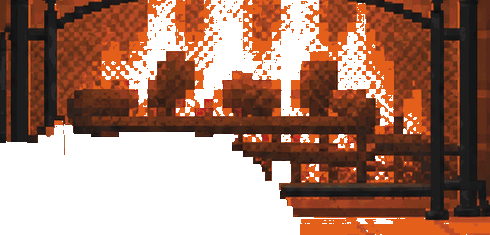
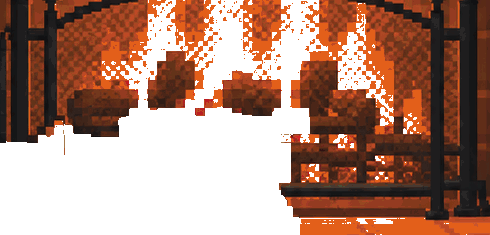
Fix tree ornaments/twinkles, clean fireplace sides, remove music

Changed region(s): [[0.2143, 0.417, 0.6429, 0.7745], [0.6122, 0.9234, 0.6429, 0.9532], [0.551, 0.834, 0.5816, 0.8638]]

diff --git a/index.html b/index.html
@@ -12,18 +12,18 @@ html,body{margin:0;height:100%;background:#0d0a0a;overflow:hidden}
 @keyframes gl{0%,82%,100%{opacity:0;transform:scale(.4)}88%{opacity:.9;transform:scale(1)}94%{opacity:.3;transform:scale(.6)}}
 #fire{left:38.896%;top:33.094%;width:21.983%;height:28.708%;opacity:.9;mix-blend-mode:screen;--m:linear-gradient(90deg,transparent,#000 12%,#000 88%,transparent),linear-gradient(transparent 0,transparent 15%,#000 65%);-webkit-mask-image:var(--m);mask-image:var(--m);-webkit-mask-composite:source-in;mask-composite:intersect}
 .front{z-index:2}.ttail,.tbody,.ktail,.kbody,.khead{z-index:3}
-.santa{left:6.236%;top:31.419%;width:21.579%;height:44.577%;transform-origin:50% 100%;animation:br 4.8s ease-in-out infinite}
-.sarm{left:17.586%;top:44.657%;width:7.761%;height:15.949%;transform-origin:79.8% 87.5%;animation:cookie 6s ease-in-out infinite}
-.stk0{left:59.578%;top:19.458%;width:4.711%;height:14.035%;transform-origin:49.5% 0.0%;animation:stk 3.20s ease-in-out infinite -0.0s}
-.stk1{left:35.711%;top:19.537%;width:4.800%;height:13.955%;transform-origin:54.2% 0.0%;animation:stk 3.65s ease-in-out infinite -0.7s}
-.stk2{left:48.183%;top:19.537%;width:4.172%;height:13.158%;transform-origin:51.6% 0.0%;animation:stk 4.10s ease-in-out infinite -1.4s}
-.stk3{left:42.351%;top:19.139%;width:4.127%;height:13.557%;transform-origin:51.1% 0.0%;animation:stk 4.55s ease-in-out infinite -2.1s}
-.stk4{left:54.195%;top:19.219%;width:4.083%;height:13.477%;transform-origin:51.6% 0.0%;animation:stk 5.00s ease-in-out infinite -2.8s}
-.mt0{left:68.506%;top:90.271%;width:1.570%;height:2.233%;transform-origin:0.0% 35.7%;animation:wig 7s ease-in-out infinite -0s}
-.mt1{left:73.127%;top:93.301%;width:3.365%;height:3.030%;transform-origin:0.0% 34.2%;animation:wig 9s ease-in-out infinite -3s}
+.santa{left:5.922%;top:31.419%;width:20.951%;height:44.577%;transform-origin:50% 100%;animation:br 4.8s ease-in-out infinite}
+.sarm{left:17.586%;top:47.608%;width:7.761%;height:12.998%;transform-origin:79.8% 84.7%;animation:cookie 6s ease-in-out infinite}
+.stk0{left:48.183%;top:19.537%;width:4.127%;height:13.158%;transform-origin:51.1% 0.0%;animation:stk 3.20s ease-in-out infinite -0.0s}
+.stk1{left:54.195%;top:19.537%;width:4.038%;height:13.158%;transform-origin:52.2% 0.0%;animation:stk 3.65s ease-in-out infinite -0.7s}
+.stk2{left:42.351%;top:19.537%;width:4.127%;height:13.158%;transform-origin:51.1% 0.0%;animation:stk 4.10s ease-in-out infinite -1.4s}
+.stk3{left:59.578%;top:19.537%;width:4.127%;height:13.158%;transform-origin:51.1% 0.0%;animation:stk 4.55s ease-in-out infinite -2.1s}
+.stk4{left:36.563%;top:19.537%;width:3.903%;height:13.158%;transform-origin:51.7% 0.0%;animation:stk 5.00s ease-in-out infinite -2.8s}
+.mt0{left:68.910%;top:90.271%;width:1.077%;height:1.515%;transform-origin:0.0% 21.1%;animation:wig 7s ease-in-out infinite -0s}
+.mt1{left:73.262%;top:93.461%;width:2.602%;height:1.675%;transform-origin:0.0% 61.9%;animation:wig 9s ease-in-out infinite -3s}
 .front{left:38.896%;top:43.062%;width:21.983%;height:18.740%;transform-origin:50% 100%;animation:none}
 .ttail{left:48.362%;top:62.121%;width:4.666%;height:9.250%;transform-origin:47.1% 0.9%;animation:sway 7s ease-in-out infinite}
-.tbody{left:36.205%;top:52.951%;width:16.779%;height:18.421%;transform-origin:50% 100%;animation:br 4.4s ease-in-out infinite}
+.tbody{left:36.205%;top:51.037%;width:16.599%;height:20.335%;transform-origin:50% 100%;animation:br 4.4s ease-in-out infinite}
 .ktail{left:52.355%;top:83.812%;width:6.146%;height:11.722%;transform-origin:5.8% 66.0%;animation:flick 9s ease-in-out infinite}
 .kbody{left:37.954%;top:73.764%;width:20.592%;height:22.329%;transform-origin:50% 100%;animation:br 5.2s ease-in-out infinite -2s}
 .khead{left:37.954%;top:73.764%;width:6.819%;height:22.329%;transform-origin:99.3% 89.6%;animation:bob 11s ease-in-out infinite}
@@ -66,61 +66,45 @@ html,body{margin:0;height:100%;background:#0d0a0a;overflow:hidden}
 <img class="sp ktail" src="ktail.png" alt="">
 <img class="sp kbody" src="kbody.png" alt="">
 <img class="sp khead" src="khead.png" alt="">
-<i class="lt" style="left:79.60%;top:15.79%;animation-duration:1.92s;animation-delay:-1.63s"></i>
-<i class="lt" style="left:81.68%;top:18.80%;animation-duration:2.21s;animation-delay:-1.81s"></i>
-<i class="lt" style="left:79.81%;top:21.42%;animation-duration:2.78s;animation-delay:-0.20s"></i>
-<i class="lt" style="left:77.28%;top:24.00%;animation-duration:1.43s;animation-delay:-2.51s"></i>
-<i class="lt" style="left:77.50%;top:24.20%;animation-duration:1.97s;animation-delay:-0.70s"></i>
-<i class="lt" style="left:83.00%;top:24.16%;animation-duration:3.59s;animation-delay:-1.41s"></i>
-<i class="lt" style="left:77.32%;top:24.36%;animation-duration:3.24s;animation-delay:-1.43s"></i>
-<i class="lt" style="left:81.18%;top:26.24%;animation-duration:2.81s;animation-delay:-0.45s"></i>
-<i class="lt" style="left:81.36%;top:26.12%;animation-duration:2.80s;animation-delay:-2.60s"></i>
-<i class="lt" style="left:79.07%;top:28.50%;animation-duration:2.55s;animation-delay:-2.22s"></i>
-<i class="lt" style="left:81.47%;top:30.67%;animation-duration:2.88s;animation-delay:-0.19s"></i>
-<i class="lt" style="left:83.69%;top:30.42%;animation-duration:3.07s;animation-delay:-1.77s"></i>
-<i class="lt" style="left:83.69%;top:30.86%;animation-duration:2.06s;animation-delay:-0.09s"></i>
-<i class="lt" style="left:77.73%;top:31.42%;animation-duration:3.30s;animation-delay:-1.42s"></i>
-<i class="lt" style="left:81.18%;top:30.98%;animation-duration:2.98s;animation-delay:-2.64s"></i>
-<i class="lt" style="left:76.01%;top:34.34%;animation-duration:2.97s;animation-delay:-2.76s"></i>
-<i class="lt" style="left:78.85%;top:35.65%;animation-duration:2.27s;animation-delay:-2.40s"></i>
-<i class="lt" style="left:78.85%;top:36.16%;animation-duration:2.38s;animation-delay:-2.81s"></i>
-<i class="lt" style="left:79.05%;top:36.16%;animation-duration:3.33s;animation-delay:-0.29s"></i>
-<i class="lt" style="left:75.73%;top:37.87%;animation-duration:1.70s;animation-delay:-0.65s"></i>
-<i class="lt" style="left:82.52%;top:38.70%;animation-duration:3.52s;animation-delay:-1.31s"></i>
-<i class="lt" style="left:85.89%;top:40.39%;animation-duration:2.78s;animation-delay:-0.90s"></i>
-<i class="lt" style="left:86.07%;top:40.31%;animation-duration:2.52s;animation-delay:-1.16s"></i>
-<i class="lt" style="left:85.95%;top:40.88%;animation-duration:2.17s;animation-delay:-1.76s"></i>
-<i class="lt" style="left:78.80%;top:42.46%;animation-duration:2.69s;animation-delay:-2.71s"></i>
-<i class="lt" style="left:76.58%;top:43.93%;animation-duration:2.90s;animation-delay:-2.79s"></i>
-<i class="lt" style="left:81.46%;top:43.99%;animation-duration:3.28s;animation-delay:-2.97s"></i>
-<i class="lt" style="left:83.65%;top:45.89%;animation-duration:2.88s;animation-delay:-0.49s"></i>
-<i class="lt" style="left:78.38%;top:46.82%;animation-duration:3.29s;animation-delay:-2.89s"></i>
-<i class="lt" style="left:89.93%;top:46.85%;animation-duration:3.39s;animation-delay:-1.71s"></i>
-<i class="lt" style="left:85.60%;top:48.37%;animation-duration:2.97s;animation-delay:-0.63s"></i>
-<i class="lt" style="left:87.91%;top:49.72%;animation-duration:3.23s;animation-delay:-1.72s"></i>
-<i class="lt" style="left:81.67%;top:50.00%;animation-duration:2.03s;animation-delay:-0.19s"></i>
+<i class="lt" style="left:81.68%;top:18.80%;animation-duration:1.92s;animation-delay:-1.63s"></i>
+<i class="lt" style="left:77.28%;top:24.00%;animation-duration:2.21s;animation-delay:-1.81s"></i>
+<i class="lt" style="left:77.50%;top:24.20%;animation-duration:2.78s;animation-delay:-0.20s"></i>
+<i class="lt" style="left:77.32%;top:24.36%;animation-duration:1.43s;animation-delay:-2.51s"></i>
+<i class="lt" style="left:81.18%;top:26.24%;animation-duration:1.97s;animation-delay:-0.70s"></i>
+<i class="lt" style="left:81.36%;top:26.12%;animation-duration:3.59s;animation-delay:-1.41s"></i>
+<i class="lt" style="left:79.07%;top:28.50%;animation-duration:3.24s;animation-delay:-1.43s"></i>
+<i class="lt" style="left:81.47%;top:30.67%;animation-duration:2.81s;animation-delay:-0.45s"></i>
+<i class="lt" style="left:83.69%;top:30.42%;animation-duration:2.80s;animation-delay:-2.60s"></i>
+<i class="lt" style="left:83.69%;top:30.86%;animation-duration:2.55s;animation-delay:-2.22s"></i>
+<i class="lt" style="left:81.18%;top:30.98%;animation-duration:2.88s;animation-delay:-0.19s"></i>
+<i class="lt" style="left:78.85%;top:35.65%;animation-duration:3.07s;animation-delay:-1.77s"></i>
+<i class="lt" style="left:78.85%;top:36.16%;animation-duration:2.06s;animation-delay:-0.09s"></i>
+<i class="lt" style="left:79.05%;top:36.16%;animation-duration:3.30s;animation-delay:-1.42s"></i>
+<i class="lt" style="left:75.73%;top:37.87%;animation-duration:2.98s;animation-delay:-2.64s"></i>
+<i class="lt" style="left:82.52%;top:38.70%;animation-duration:2.97s;animation-delay:-2.76s"></i>
+<i class="lt" style="left:85.89%;top:40.39%;animation-duration:2.27s;animation-delay:-2.40s"></i>
+<i class="lt" style="left:86.07%;top:40.31%;animation-duration:2.38s;animation-delay:-2.81s"></i>
+<i class="lt" style="left:85.95%;top:40.88%;animation-duration:3.33s;animation-delay:-0.29s"></i>
+<i class="lt" style="left:76.58%;top:43.93%;animation-duration:1.70s;animation-delay:-0.65s"></i>
+<i class="lt" style="left:81.46%;top:43.99%;animation-duration:3.52s;animation-delay:-1.31s"></i>
+<i class="lt" style="left:83.65%;top:45.89%;animation-duration:2.78s;animation-delay:-0.90s"></i>
+<i class="lt" style="left:78.38%;top:46.82%;animation-duration:2.52s;animation-delay:-1.16s"></i>
+<i class="lt" style="left:85.60%;top:48.37%;animation-duration:2.17s;animation-delay:-1.76s"></i>
+<i class="lt" style="left:87.91%;top:49.72%;animation-duration:2.69s;animation-delay:-2.71s"></i>
+<i class="lt" style="left:81.67%;top:50.00%;animation-duration:2.90s;animation-delay:-2.79s"></i>
 <i class="lt" style="left:75.78%;top:50.46%;animation-duration:3.28s;animation-delay:-2.97s"></i>
-<i class="lt" style="left:84.56%;top:51.28%;animation-duration:1.59s;animation-delay:-2.40s"></i>
-<i class="lt" style="left:79.34%;top:52.72%;animation-duration:2.30s;animation-delay:-0.45s"></i>
-<i class="lt" style="left:88.13%;top:54.59%;animation-duration:2.05s;animation-delay:-2.31s"></i>
-<i class="lt" style="left:72.61%;top:55.14%;animation-duration:3.32s;animation-delay:-0.13s"></i>
-<i class="lt" style="left:74.72%;top:55.46%;animation-duration:2.75s;animation-delay:-0.13s"></i>
-<i class="lt" style="left:83.51%;top:55.59%;animation-duration:2.98s;animation-delay:-0.99s"></i>
-<i class="lt" style="left:78.33%;top:57.26%;animation-duration:3.34s;animation-delay:-2.94s"></i>
-<i class="lt" style="left:86.45%;top:58.49%;animation-duration:2.51s;animation-delay:-3.00s"></i>
-<i class="lt" style="left:80.44%;top:59.21%;animation-duration:2.08s;animation-delay:-0.23s"></i>
-<i class="lt" style="left:86.39%;top:58.94%;animation-duration:2.72s;animation-delay:-0.09s"></i>
-<i class="lt" style="left:89.71%;top:61.22%;animation-duration:1.83s;animation-delay:-1.22s"></i>
-<i class="lt" style="left:81.17%;top:62.85%;animation-duration:2.74s;animation-delay:-0.47s"></i>
-<i class="lt" style="left:76.42%;top:64.07%;animation-duration:1.49s;animation-delay:-2.60s"></i>
-<i class="lt" style="left:78.94%;top:64.47%;animation-duration:2.09s;animation-delay:-2.88s"></i>
-<i class="lt" style="left:79.16%;top:64.47%;animation-duration:3.37s;animation-delay:-1.13s"></i>
-<i class="lt" style="left:91.81%;top:64.47%;animation-duration:2.41s;animation-delay:-1.56s"></i>
-<i class="lt" style="left:84.97%;top:64.91%;animation-duration:2.82s;animation-delay:-1.79s"></i>
-<i class="lt" style="left:79.16%;top:64.83%;animation-duration:2.63s;animation-delay:-1.86s"></i>
-<i class="lt" style="left:82.54%;top:67.12%;animation-duration:3.47s;animation-delay:-1.52s"></i>
-<i class="lt" style="left:78.95%;top:67.77%;animation-duration:2.35s;animation-delay:-2.16s"></i>
-<i class="lt" style="left:81.18%;top:69.90%;animation-duration:1.92s;animation-delay:-0.90s"></i>
+<i class="lt" style="left:84.56%;top:51.28%;animation-duration:2.88s;animation-delay:-0.49s"></i>
+<i class="lt" style="left:79.34%;top:52.72%;animation-duration:3.29s;animation-delay:-2.89s"></i>
+<i class="lt" style="left:88.13%;top:54.59%;animation-duration:3.39s;animation-delay:-1.71s"></i>
+<i class="lt" style="left:74.72%;top:55.46%;animation-duration:2.97s;animation-delay:-0.63s"></i>
+<i class="lt" style="left:78.33%;top:57.26%;animation-duration:3.23s;animation-delay:-1.72s"></i>
+<i class="lt" style="left:86.45%;top:58.49%;animation-duration:2.03s;animation-delay:-0.19s"></i>
+<i class="lt" style="left:80.44%;top:59.21%;animation-duration:3.28s;animation-delay:-2.97s"></i>
+<i class="lt" style="left:86.39%;top:58.94%;animation-duration:1.59s;animation-delay:-2.40s"></i>
+<i class="lt" style="left:81.17%;top:62.85%;animation-duration:2.30s;animation-delay:-0.45s"></i>
+<i class="lt" style="left:76.42%;top:64.07%;animation-duration:2.05s;animation-delay:-2.31s"></i>
+<i class="lt" style="left:84.97%;top:64.91%;animation-duration:3.32s;animation-delay:-0.13s"></i>
+<i class="lt" style="left:82.54%;top:67.12%;animation-duration:2.75s;animation-delay:-0.13s"></i>
 <img class="sp wframe" src="wframe.png" alt="">
 <img class="sp rfront" src="rfront.png" alt="">
 <div id="glow"></div>
@@ -150,9 +134,6 @@ const p=src(noise(A,4)),pf=A.createBiquadFilter();pf.type='lowpass';pf.frequency
 // hiss
 const wb=noise(A,2),h=src(wb),hf=A.createBiquadFilter();hf.type='bandpass';hf.frequency.value=3000;const hg=A.createGain();hg.gain.value=.012;h.connect(hf).connect(hg).connect(M);
 (function cr(){const s=A.createBufferSource();s.buffer=wb;const f=A.createBiquadFilter();f.type='highpass';f.frequency.value=1000+Math.random()*3000;const g=A.createGain(),n=A.currentTime;g.gain.setValueAtTime(.08*Math.random()+.02,n);g.gain.exponentialRampToValueAtTime(.001,n+.03+Math.random()*.05);s.connect(f).connect(g).connect(M);s.start(n,Math.random());s.stop(n+.1);setTimeout(cr,60+Math.random()*(Math.random()<.2?80:600))})();
-// Silent Night
[1 lines of base64/hex data omitted]
-function bell(f,t,d){[1,2,3.01].forEach((h,i)=>{const o=A.createOscillator(),g=A.createGain();o.frequency.value=f*h;g.gain.setValueAtTime(.05/(1+i*3),t);g.gain.exponentialRampToValueAtTime(.0001,t+d+1.2);o.connect(g).connect(M);o.start(t);o.stop(t+d+1.3)})}
-(function song(t0){let t=t0;q.forEach(x=>{const d=+x.slice(1)*.33;bell(N[x[0]],t,d);t+=d});setTimeout(()=>song(t+4),(t-A.currentTime)*1000)})(t+1);on=1}
+on=1}
 document.addEventListener('click',()=>{if(!A){start();B.style.opacity=0;setTimeout(()=>B.remove(),1600)}else{on=!on;M.gain.setTargetAtTime(on?.5:0,A.currentTime,.1)}});
 </script></body></html>
